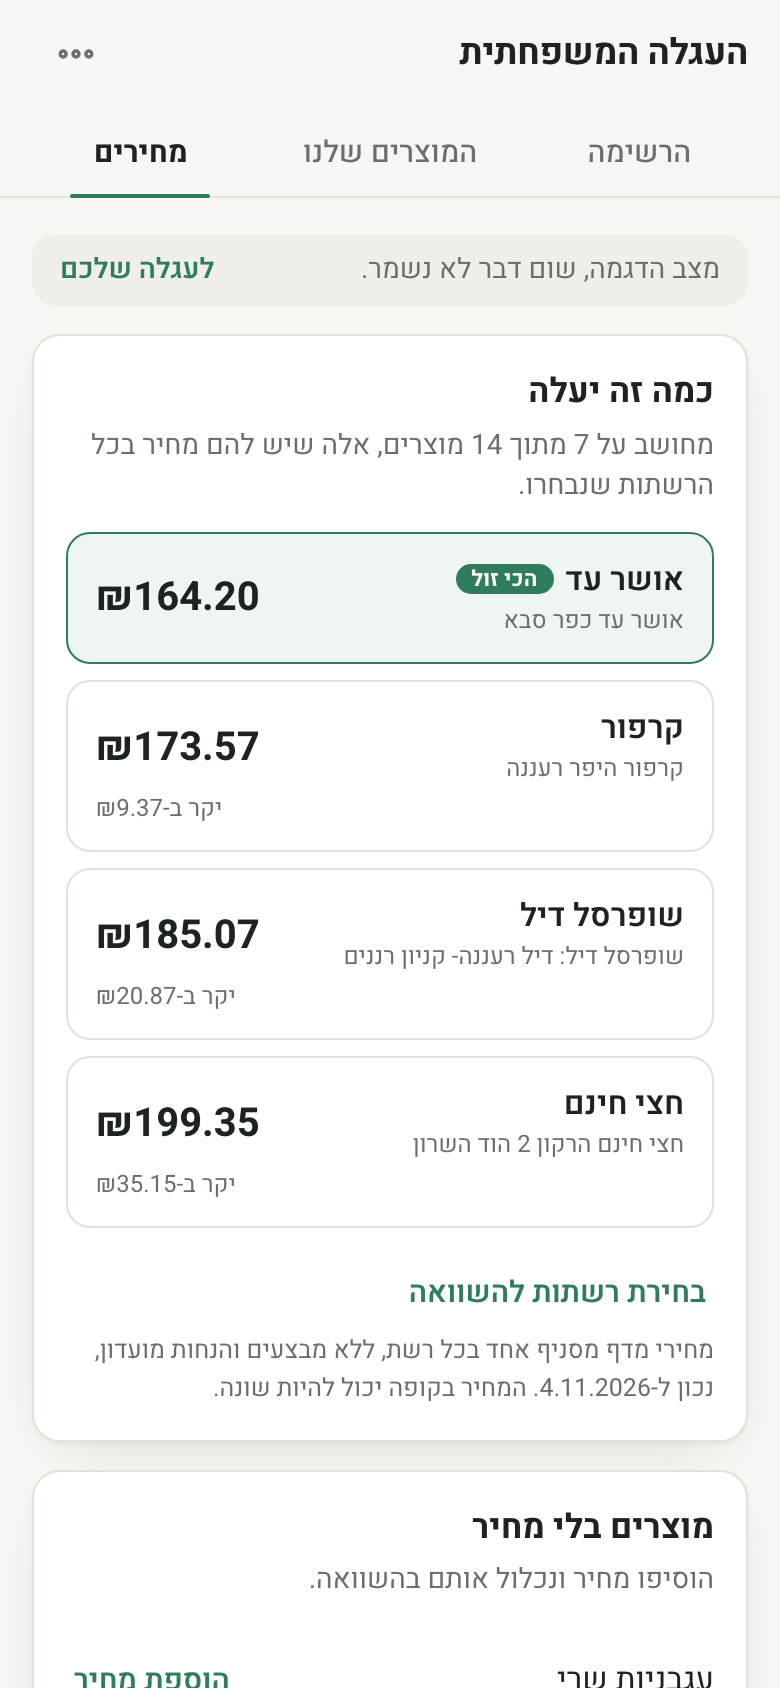
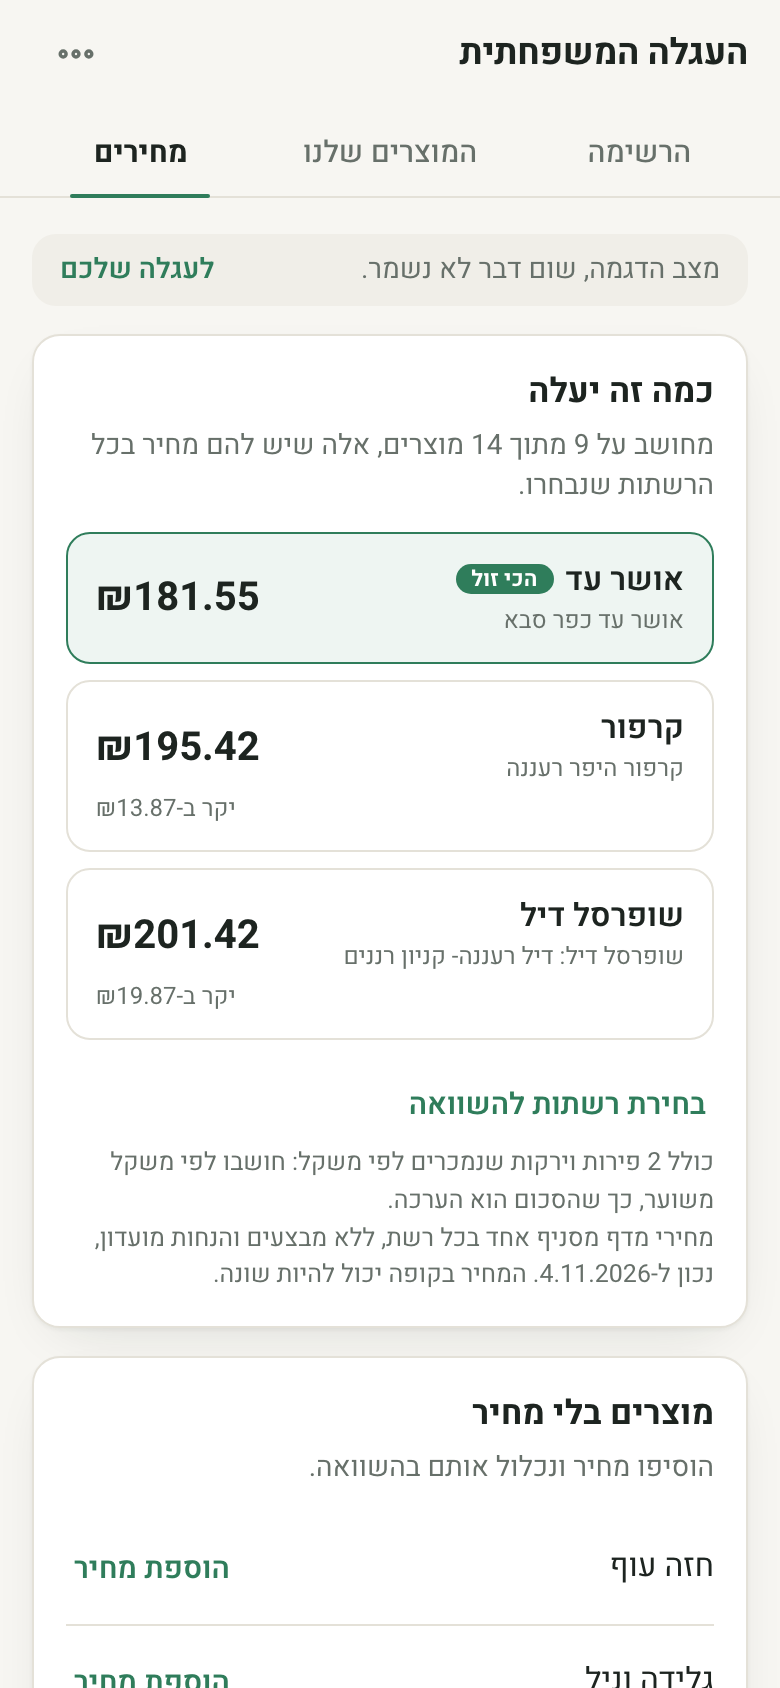
Per-kg fresh produce, and the products from the family's own lists
- Produce priced per kilo at Shufersal, Carrefour and Osher Ad (26 items),
  with an assumed weight per typed unit; totals are labelled estimates.
  A small count in the name ("קישוא 3") is read as the quantity.
- Hazi Hinam is an optional chain (its branch file has no produce), off by default.
- New packaged products from the family's lists: Mutti sauce, soup almonds,
  olive oil, panty liners, Yotvata Pro coffee shake, Parmesan flakes, dishwasher
  capsules; aliases for soy and the yellow-cheese abbreviation.
- Tests for produce matching, per-kg totals and typed counts (52 passing).

diff --git a/test/pricing.test.js b/test/pricing.test.js
@@ -98,7 +98,20 @@ test("matching: everyday names find the right product, lookalikes find none", ()
   assert.equal(idOf("תה"), "tea");
   assert.equal(idOf("גבינה צהובה מגורדת"), "yellow-grated");
   assert.equal(idOf("גבינה צהובה"), "yellow-sliced");
-  assert.equal(idOf("עגבניות"), null); // produce is not in the price data
+  // fresh produce (priced per kg)
+  assert.equal(idOf("עגבניות"), "tomato");
+  assert.equal(idOf("עגבניות שרי"), "cherry-tomato");
+  assert.equal(idOf("מלפפונים"), "cucumber");
+  assert.equal(idOf("בצלים"), "onion");
+  assert.equal(idOf("בצל אדום"), "red-onion");
+  assert.equal(idOf("קישוא"), "zucchini");
+  assert.equal(idOf("תפוחי אדמה"), "potato");
+  assert.equal(idOf("תפוח אדמה"), "potato");
+  assert.equal(idOf("תפוחים"), "apple");
+  assert.equal(idOf("אפרסמון"), "persimmon");
+  assert.equal(idOf("קישוא 3"), "zucchini");
+  assert.equal(idOf("פירות"), null);
+  assert.equal(idOf("פירות שנראים טוב"), null);
   assert.equal(idOf(""), null);
 });
 
@@ -237,7 +250,10 @@ test("prices.json: every product has a barcode, at least two chain prices, a san
   for (const p of real) {
     assert.ok(!ids.has(p.id), `duplicate id ${p.id}`);
     ids.add(p.id);
-    assert.ok(/^\d{6,14}$/.test(p.barcode), `${p.id} barcode`);
+    if (p.kg) {
+      assert.ok(p.unitKg > 0 && p.unitKg <= 3, `${p.id} unitKg`);
+      assert.ok(Object.values(p.prices).every((x) => x >= 1 && x <= 100), `${p.id} per-kg price range`);
+    } else assert.ok(/^\d{6,14}$/.test(p.barcode), `${p.id} barcode`);
     const v = Object.values(p.prices);
     assert.ok(v.length >= 2, `${p.id} is priced at ${v.length} chain(s)`);
     assert.ok(Math.max(...v) / Math.min(...v) <= 2.2, `${p.id} prices differ too much`);
@@ -245,4 +261,40 @@ test("prices.json: every product has a barcode, at least two chain prices, a san
   assert.ok(real.length >= 150, `only ${real.length} products`);
   const atOsher = real.filter((p) => p.prices["osher-ad"]).length;
   assert.ok(atOsher >= 100, `only ${atOsher} products priced at Osher Ad`);
+});
+
+test("produce is priced per kilo with an assumed weight, and the total is labelled an estimate", () => {
+  const products = [
+    { id: "persimmon", name: "אפרסמון", aliases: ["אפרסמון"], kg: true, unitKg: 0.2, prices: { a: 10, b: 20 } },
+    { id: "milk", name: "חלב", aliases: ["חלב"], prices: { a: 7, b: 8 } },
+  ];
+  const chains = [{ id: "a", name: "A" }, { id: "b", name: "B" }];
+  const r = compareStores({ items: [{ name: "אפרסמון", qty: 3 }, { name: "חלב", qty: 2 }], products, chains });
+  assert.equal(r.rows.find((x) => x.chainId === "a").total, 3 * 0.2 * 10 + 2 * 7); // 6 + 14
+  assert.equal(r.rows.find((x) => x.chainId === "b").total, 3 * 0.2 * 20 + 2 * 8); // 12 + 16
+  assert.equal(r.estimatedCount, 1);
+  assert.equal(r.comparable.find((x) => x.name === "אפרסמון").est, true);
+  assert.equal(r.comparable.find((x) => x.name === "חלב").est, false);
+  assert.equal(estimateTotal({ items: [{ name: "אפרסמון", qty: 3 }], products, chainId: "a" }).total, 6);
+});
+
+test("a family-typed price for a produce item is per kilo, like the file prices", () => {
+  const products = [{ id: "t", name: "עגבניה", aliases: ["עגבניות"], kg: true, unitKg: 1, prices: { a: 8, b: 9 } }];
+  const r = compareStores({
+    items: [{ name: "עגבניות", qty: 2 }], products, chains: [{ id: "a", name: "A" }, { id: "b", name: "B" }],
+    userPrices: { [priceKey("עגבניות")]: { a: 5 } },
+  });
+  assert.equal(r.rows.find((x) => x.chainId === "a").total, 10);
+  assert.equal(r.rows.find((x) => x.chainId === "b").total, 18);
+});
+
+test("a small number typed in a produce name is its count, never for packaged products", () => {
+  const products = [
+    { id: "z", name: "קישוא", aliases: ["קישוא"], kg: true, unitKg: 0.2, prices: { a: 10, b: 10 } },
+    { id: "m", name: "חלב", aliases: ["חלב"], nums: ["3%"], prices: { a: 7, b: 7 } },
+  ];
+  const chains = [{ id: "a", name: "A" }, { id: "b", name: "B" }];
+  const r = compareStores({ items: [{ name: "קישוא 3" }], products, chains });
+  assert.equal(r.rows[0].total, 6); // 3 x 0.2 kg x 10
+  assert.equal(compareStores({ items: [{ name: "חלב 5" }], products, chains }).comparableCount, 0); // 5 is not an allowed number for milk
 });

diff --git a/public/pricing.js b/public/pricing.js
@@ -55,7 +55,8 @@ function score(tokens, vtokens, product) {
       for (const j of leftover) {
         const t = tokens[j];
         // A leftover number must be one this product allows; a leftover word must not change the product.
-        const bad = isNumeric(t) ? !nums.has(t) : vtokens[j].some((v) => not.has(v) || NOT_ANY.has(v));
+        // Produce also takes a plain small count ("קישוא 3" = three zucchini).
+        const bad = isNumeric(t) ? !(nums.has(t) || (product.kg && /^\d{1,2}$/.test(t))) : vtokens[j].some((v) => not.has(v) || NOT_ANY.has(v));
         if (bad) { ok = false; break; }
       }
       if (ok) best = Math.max(best, alias.length);
@@ -89,6 +90,15 @@ function unitPrice(userEntry, product, chainId) {
 }
 
 const qtyOf = (item) => (Number.isInteger(item.qty) && item.qty > 0 ? item.qty : 1);
+// Produce is priced per kilo: one typed unit stands for `unitKg` kilos ("3 אפרסמון" = 3 x 0.2 kg). Those totals are estimates.
+// The count for a produce item: the quantity field, or a small number typed in the name ("קישוא 3", "3 אפרסמון").
+function effectiveQty(item, product) {
+  const q = qtyOf(item);
+  if (!product?.kg || q !== 1) return q;
+  const n = tokenize(item.name).find((t) => /^\d{1,2}$/.test(t));
+  return n && +n >= 1 ? +n : 1;
+}
+const factorOf = (product) => (product?.kg && product.unitKg > 0 ? product.unitKg : 1);
 
 // Compare chains on the items priced at EVERY chain in `chains` (the intersection), so a chain that
 // lacks a price for something can never look cheapest. Everything else is reported, not guessed.
@@ -106,7 +116,10 @@ export function compareStores({ items, products, userPrices = {}, chains }) {
       if (p != null) { prices[id] = p; covered[id]++; }
     }
     const n = Object.keys(prices).length;
-    const row = { name: item.name, qty: qtyOf(item), prices, product: product ? { id: product.id, name: product.name, size: product.size } : null };
+    const row = {
+      name: item.name, qty: effectiveQty(item, product), factor: factorOf(product), est: !!product?.kg, prices,
+      product: product ? { id: product.id, name: product.name, size: product.size } : null,
+    };
     if (n === ids.length && n > 0) comparable.push(row);
     else if (n > 0) partial.push(row);
     else unpriced.push(item.name);
@@ -115,7 +128,7 @@ export function compareStores({ items, products, userPrices = {}, chains }) {
   const rows = chains.map((c) => ({
     chainId: c.id,
     name: c.name,
-    total: round2(comparable.reduce((sum, r) => sum + r.prices[c.id] * r.qty, 0)),
+    total: round2(comparable.reduce((sum, r) => sum + r.prices[c.id] * r.qty * r.factor, 0)),
     pricedCount: covered[c.id],
   }));
 
@@ -127,6 +140,7 @@ export function compareStores({ items, products, userPrices = {}, chains }) {
   return {
     rows,
     comparableCount: comparable.length,
+    estimatedCount: comparable.filter((r) => r.est).length, // produce priced per kilo with an assumed weight
     comparable,
     unpriced,
     partial: partial.map((r) => r.name),
@@ -141,9 +155,10 @@ export function estimateTotal({ items, products, userPrices = {}, chainId }) {
   let total = 0, pricedCount = 0;
   const missing = [];
   for (const item of items) {
-    const p = unitPrice(userPrices[priceKey(item.name)], matchProduct(item.name, products), chainId);
+    const product = matchProduct(item.name, products);
+    const p = unitPrice(userPrices[priceKey(item.name)], product, chainId);
     if (p == null) missing.push(item.name);
-    else { total += p * qtyOf(item); pricedCount++; }
+    else { total += p * effectiveQty(item, product) * factorOf(product); pricedCount++; }
   }
   return { total: round2(total), pricedCount, missing };
 }

diff --git a/public/ui-prices.js b/public/ui-prices.js
@@ -21,11 +21,12 @@ export function initPrices(ctx) {
   fetch("prices.json").then((r) => r.json()).then((d) => { data = d; refresh(); }).catch(() => { data = null; });
 
   // ---- Which chains are compared: the ones with published prices, plus any the family added ----
-  const fileChains = () => (data?.chains || []).map((c) => ({ id: c.id, name: c.name, branch: c.branch, custom: false }));
+  const fileChains = () => (data?.chains || []).map((c) => ({ id: c.id, name: c.name, branch: c.branch, custom: false, optional: !!c.optional }));
   const allChains = () => [...fileChains(), ...ctx.storeCfg.custom.map((c) => ({ id: c.id, name: c.n, custom: true }))];
   const selected = () => {
     const sel = ctx.storeCfg.sel;
-    return allChains().filter((c) => (sel ? sel.includes(c.id) : !c.custom));
+    // Default: the chains with published prices, except "optional" ones (their branch file has no fresh produce).
+    return allChains().filter((c) => (sel ? sel.includes(c.id) : !c.custom && !c.optional));
   };
   const chainName = (id) => allChains().find((c) => c.id === id)?.name || storeById(id)?.name || (id === "other" ? "אחר" : id);
 
@@ -55,7 +56,7 @@ export function initPrices(ctx) {
     const entries = Object.entries(unitPrices(name).out).filter(([id]) => sel.has(id));
     if (!entries.length) return "";
     const [id, v] = entries.sort((a, b) => a[1] - b[1])[0];
-    return `${money(v)} ב${chainName(id)}`;
+    return `${money(v)}${unitPrices(name).product?.kg ? " לק״ג" : ""} ב${chainName(id)}`;
   }
 
   // ---- The one-line estimate on the list tab ----
@@ -114,6 +115,7 @@ export function initPrices(ctx) {
     pick.type = "button";
     pick.addEventListener("click", openStores);
     p.append(pick);
+    if (r.estimatedCount) p.append(h("p", "fine", `כולל ${r.estimatedCount} פירות וירקות שנמכרים לפי משקל: חושבו לפי משקל משוער, כך שהסכום הוא הערכה.`));
     p.append(h("p", "fine", `מחירי מדף מסניף אחד בכל רשת, ללא מבצעים והנחות מועדון` + (data.asOf ? `, נכון ל-${new Date(data.asOf).toLocaleDateString("he-IL")}` : "") + ". המחיר בקופה יכול להיות שונה."));
     return p;
   }
@@ -239,7 +241,9 @@ export function initPrices(ctx) {
     const { product, mine } = unitPrices(name);
     priced = { name, key: priceKey(name), mine };
     $("price-title").textContent = name;
-    $("price-sub").textContent = product
+    $("price-sub").textContent = product?.kg
+      ? `זוהה כ"${product.name}". מחיר לקילו, מה שתזינו יחליף את מחיר הרשת. בהערכה, כל יחידה ברשימה נחשבת ${product.unitKg} ק״ג.`
+      : product
       ? `זוהה כ"${product.name}${product.size ? " " + product.size : ""}". מחיר ליחידה אחת, מה שתזינו יחליף את מחיר הרשת.`
       : "המוצר לא נמצא במאגר המחירים. הזינו מחיר ליחידה אחת בכל רשת שתרצו.";
     const fields = selected().map((c) => {
@@ -298,6 +302,7 @@ export function initPrices(ctx) {
       });
       const name = h("span", "", c.name);
       if (c.branch) name.append(" ", h("small", "", c.branch));
+      if (c.optional) name.append(" ", h("small", "", "· בלי מחירי ירקות"));
       row.append(box, name);
       if (c.custom) {
         const rm = h("button", "link-btn danger", "הסרה");

diff --git a/README.md b/README.md
@@ -20,7 +20,7 @@ Family WhatsApp groups are where shopping lists go to die: items get buried, bou
 - **Live sync.** Everyone with the cart link sees changes instantly. When someone else adds an item while your screen is open, a toast says who added what.
 - **Auto-sorting into supermarket sections.** A word-aware Hebrew classifier (with a catalog of Israeli products and brands) files each item under produce, dairy, bakery, and so on. Correct it once and the family's correction is remembered for every future item.
 - **Our products.** Everything the family ever adds is counted and kept. Tap `+` to add it again, pin the weekly regulars and add them all in one tap, change a product's section, or remove it. While typing, matching regulars appear above the keyboard.
-- **Prices and store comparison.** Real shelf prices for ~170 common products from the chains' public price files (see below), the estimated cost of your list at each chain, and the family's own prices on top. Plus **receipts**: type what you actually paid at a store and see the average per trip and per item.
+- **Prices and store comparison.** Real shelf prices for ~200 common products from the chains' public price files (see below), the estimated cost of your list at each chain, and the family's own prices on top. Plus **receipts**: type what you actually paid at a store and see the average per trip and per item.
 - **Your store's order.** Move sections up or down to match how you walk your supermarket; the whole family sees the same order.
 - **Shopping mode.** One section at a time, in walking order, with a progress strip, a trip timer, a screen that stays awake, and a summary at the end that compares with your last trip.
 - **Fast input.** Type several items at once, paste a whole WhatsApp-style list, or dictate by voice. Quantities (`חלב x3`) and notes are parsed out.
@@ -38,8 +38,9 @@ Family WhatsApp groups are where shopping lists go to die: items get buried, bou
 
 ## Where the prices come from
 
-Israeli law makes the big chains publish a price file per branch. `scripts/build-prices.mjs` downloads the public ones, takes a curated list of ~170 branded, fixed-size products (`scripts/reference-products.mjs`, matched by barcode), and writes the small `public/prices.json` the app loads.
+Israeli law makes the big chains publish a price file per branch. `scripts/build-prices.mjs` downloads the public ones, takes a curated list of ~200 branded, fixed-size products (`scripts/reference-products.mjs`, matched by barcode), and writes the small `public/prices.json` the app loads.
 
+- **Fresh produce is priced per kilo.** `scripts/reference-produce.mjs` picks, per chain, the weighted item with a given name (tomato, cucumber, onion, potato, banana, apple, persimmon...). A typed unit stands for an assumed weight ("3 אפרסמון" = 3 x 0.2 kg, "קישוא 3" = 3 x 0.2 kg), so those totals are labelled as estimates in the app. Hazi Hinam's branch file has no fresh produce, so it is an *optional* chain and is not compared by default.
 - **Chains with data today:** Shufersal Deal (Ra'anana), Carrefour Hyper (Ra'anana), Hazi Hinam (Hod HaSharon) and Osher Ad (Kfar Saba). The branch and the date are shown in the app. These are **shelf prices of one branch, without club discounts or promotions**, so the register can differ.
 - **Osher Ad is loaded from a file a person downloaded**, not fetched by the script, because its files sit behind a login and the builder never logs in anywhere. Download the branch's `PriceFull` file yourself (for example with the open-source [israeli-supermarket-scarpers](https://github.com/OpenIsraeliSupermarkets/israeli-supermarket-scarpers)) and pass it with `--osherad <file>`.
 - **Rami Levy, Yochananof, Victory** are not included for the same reason (or could not be fetched automatically). Add any chain in the app and type its prices yourself; your prices always win over the file prices.
